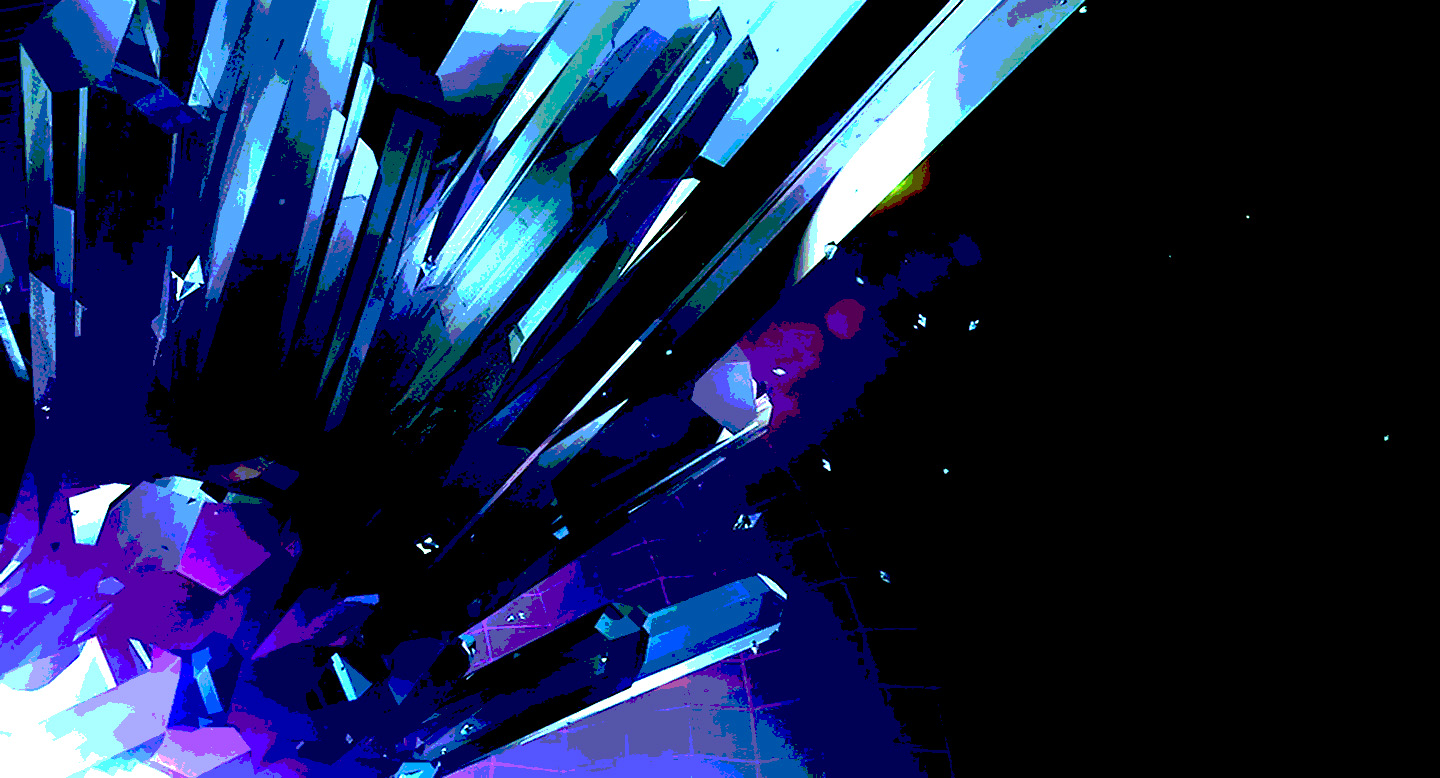
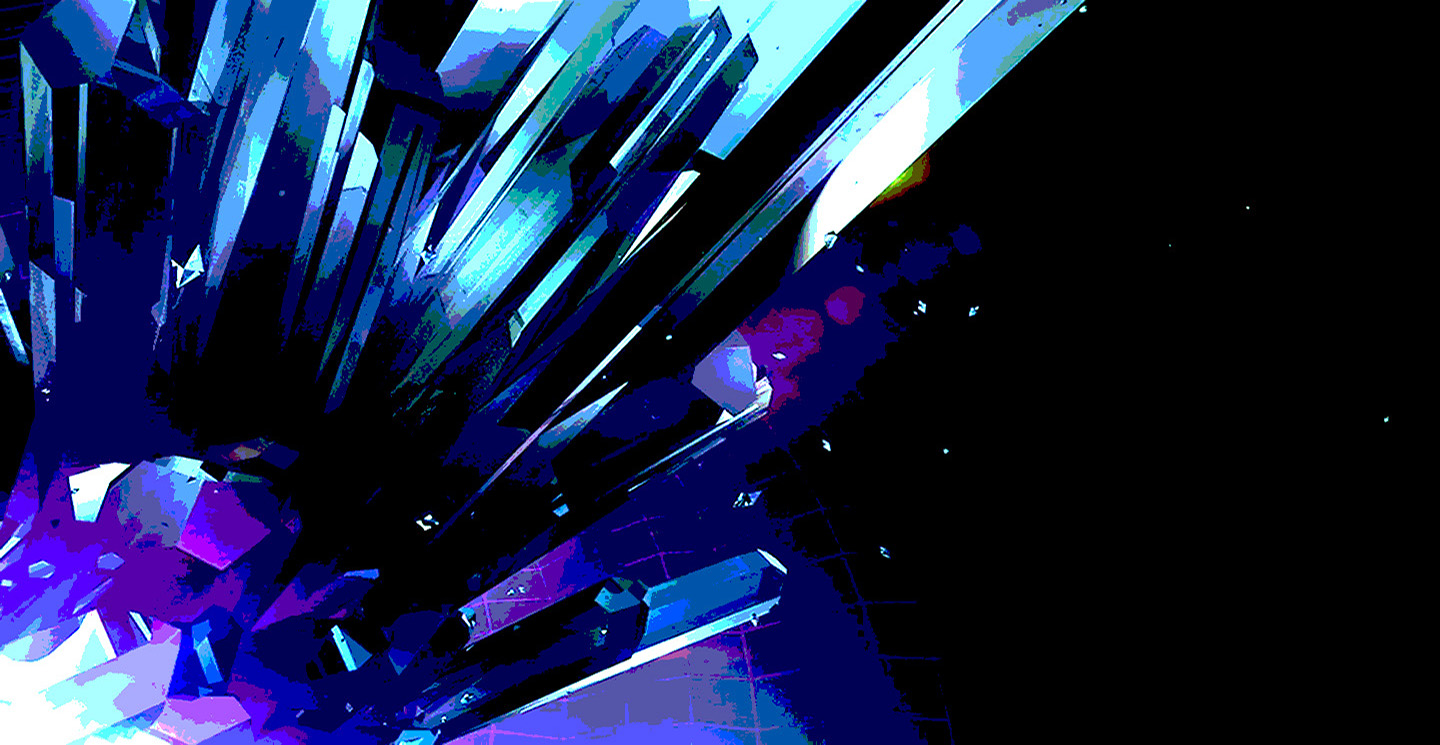
crystal game

diff --git a/assets/css/style.css b/assets/css/style.css
@@ -1,5 +1,5 @@
 body {
-    background-image: url("../images/crystal_bkg.png");
+    background-image: url("../images/done.jpg");
     font-family: 'Iceland', cursive;
     max-width: 500px;
     margin-left: auto;
@@ -7,21 +7,19 @@ body {
 
 h1 {
     width: 450px;
-    border: 3px solid black;
     padding: 15px;
     margin-bottom: 3px;
     text-align: center;
-    font-size: 47px; 
-    background-color: rgb(97, 59, 202);  
+    font-size: 50px; 
+    background-color: rgb(143, 52, 247);
     font-weight: bold;
-    opacity: .3;
+    opacity: .4;
     margin-right: 3px;
 }
 
 .instructions {
     width: 450px;
     height: 240px;
-    border: 3px solid black;
     padding: 15px;
     padding-top: 1px;
     margin-top: 3px;
@@ -29,14 +27,13 @@ h1 {
     text-align: left;
     font-weight: bold;
     font-size: 17px;
-    background-color:rgb(97, 59, 202);
-    opacity: .3;
+    background-color: rgb(143, 52, 247);
+    opacity: .4;
 }
 
 .randomNumber {
     width: 450px;
     height: 64px;
-    border: 3px solid black;
     padding: 15px;
     padding-top: 3px;
     padding-bottom: 3px;
@@ -44,10 +41,10 @@ h1 {
     margin-bottom: 2px;
     text-align: center;
     font-weight: bold;
-    font-size: 47px;
+    font-size: 50px;
     float: left;
-    background-color: rgb(97, 59, 202);
-    opacity: .3;
+    background-color: rgb(143, 52, 247);
+    opacity: .4;
     color: black;
 
 }
@@ -55,7 +52,6 @@ h1 {
 #wins {
     width: 160px;
     height: 67px;
-    border: 3px solid black;
     padding: 10px;
     padding-top: 0px;
     padding-bottom: 3px;
@@ -66,15 +62,14 @@ h1 {
     font-size: 27px;
     float: left;
     font-weight: bold;
-    background-color: rgb(97, 59, 202);
-    opacity: .3;
-    margin-right: 18px;
+    background-color: rgb(143, 52, 247);
+    opacity: .4;
+    margin-right: 20px;
 }
 
 #losses {
     width: 160px;
     height: 67px;
-    border: 3px solid black;
     padding: 10px;
     padding-top: 0px;
     padding-bottom: 3px;
@@ -85,9 +80,9 @@ h1 {
     font-size: 27px;
     float: left;
     font-weight: bold;
-    background-color: rgb(97, 59, 202);
-    opacity: .3;
-    margin-left: 95px;
+    background-color: rgb(143, 52, 247);
+    opacity: .4;
+    margin-left: 100px;
 }
 
 #light {
@@ -96,7 +91,7 @@ h1 {
     margin-top: 2px;
     margin-bottom: 2px;
     margin-right: 5px;
-    margin-left: 3px;
+    margin-left: 1px;
 }
 
 #purple {
@@ -129,22 +124,19 @@ h1 {
     width: 480px;
     margin-top: 5px;
     margin-bottom: 4px;
-    border: 3px solid black;
-    background-color: rgb(97, 59, 202);
+    background-color: rgb(143, 52, 247);
     text-align: center;
     font-size: 27px;
-    opacity: .3;
+    opacity: .4;
 }
 
 #totalScore {
     font-weight: bold;
     width: 480px;
-    height: 110px;
+    height: 90px;
     margin-top: 4px;
-    border: 3px solid black;
-    text-align: center;
-    background-color: rgb(97, 59, 202);
-    font-size: 47px;
-    opacity: .3;
-    margin-bottom: 10px;
+    text-align: center;    
+    background-color: rgb(143, 52, 247);
+    font-size: 50px;
+    opacity: .4;
 }

diff --git a/index.html b/index.html
@@ -43,7 +43,7 @@
                 <img src="assets/images/purple_crystal.jpg" alt="blue crystal">
             </div>
             <div id="white">
-                <img src="assets/images/white_crystal.jpg" alt="yellow crystal">
+                <img src="assets/images/white_crystal2.jpg" alt="yellow crystal">
             </div>
             <div id="blue">
                 <img src="assets/images/blue_crystal.jpg" alt="purple crystal">
@@ -52,7 +52,7 @@
 
         <div class="scores">
             <div id="textOnScreen">Your Total Score Is:</div>
-            <div id="totalScore"></div>
+            <div id="totalScore">0</div>
         </div>
     
 <script type="text/javascript" src="assets/javascript/game.js"></script>
@@ -60,5 +60,3 @@
 
 </body>
 </html>
-
-

diff --git a/assets/javascript/game.js b/assets/javascript/game.js
@@ -29,6 +29,7 @@ var score = document.querySelector("#totalScore");
 $("#purple").on("click", function() {
     totalScore = totalScore + crystalValue[0];
     console.log(totalScore);
+// Generates the sum between the crystalValue and totalScore, after each each click //
     $("#totalScore").html(totalScore);
 });
 
